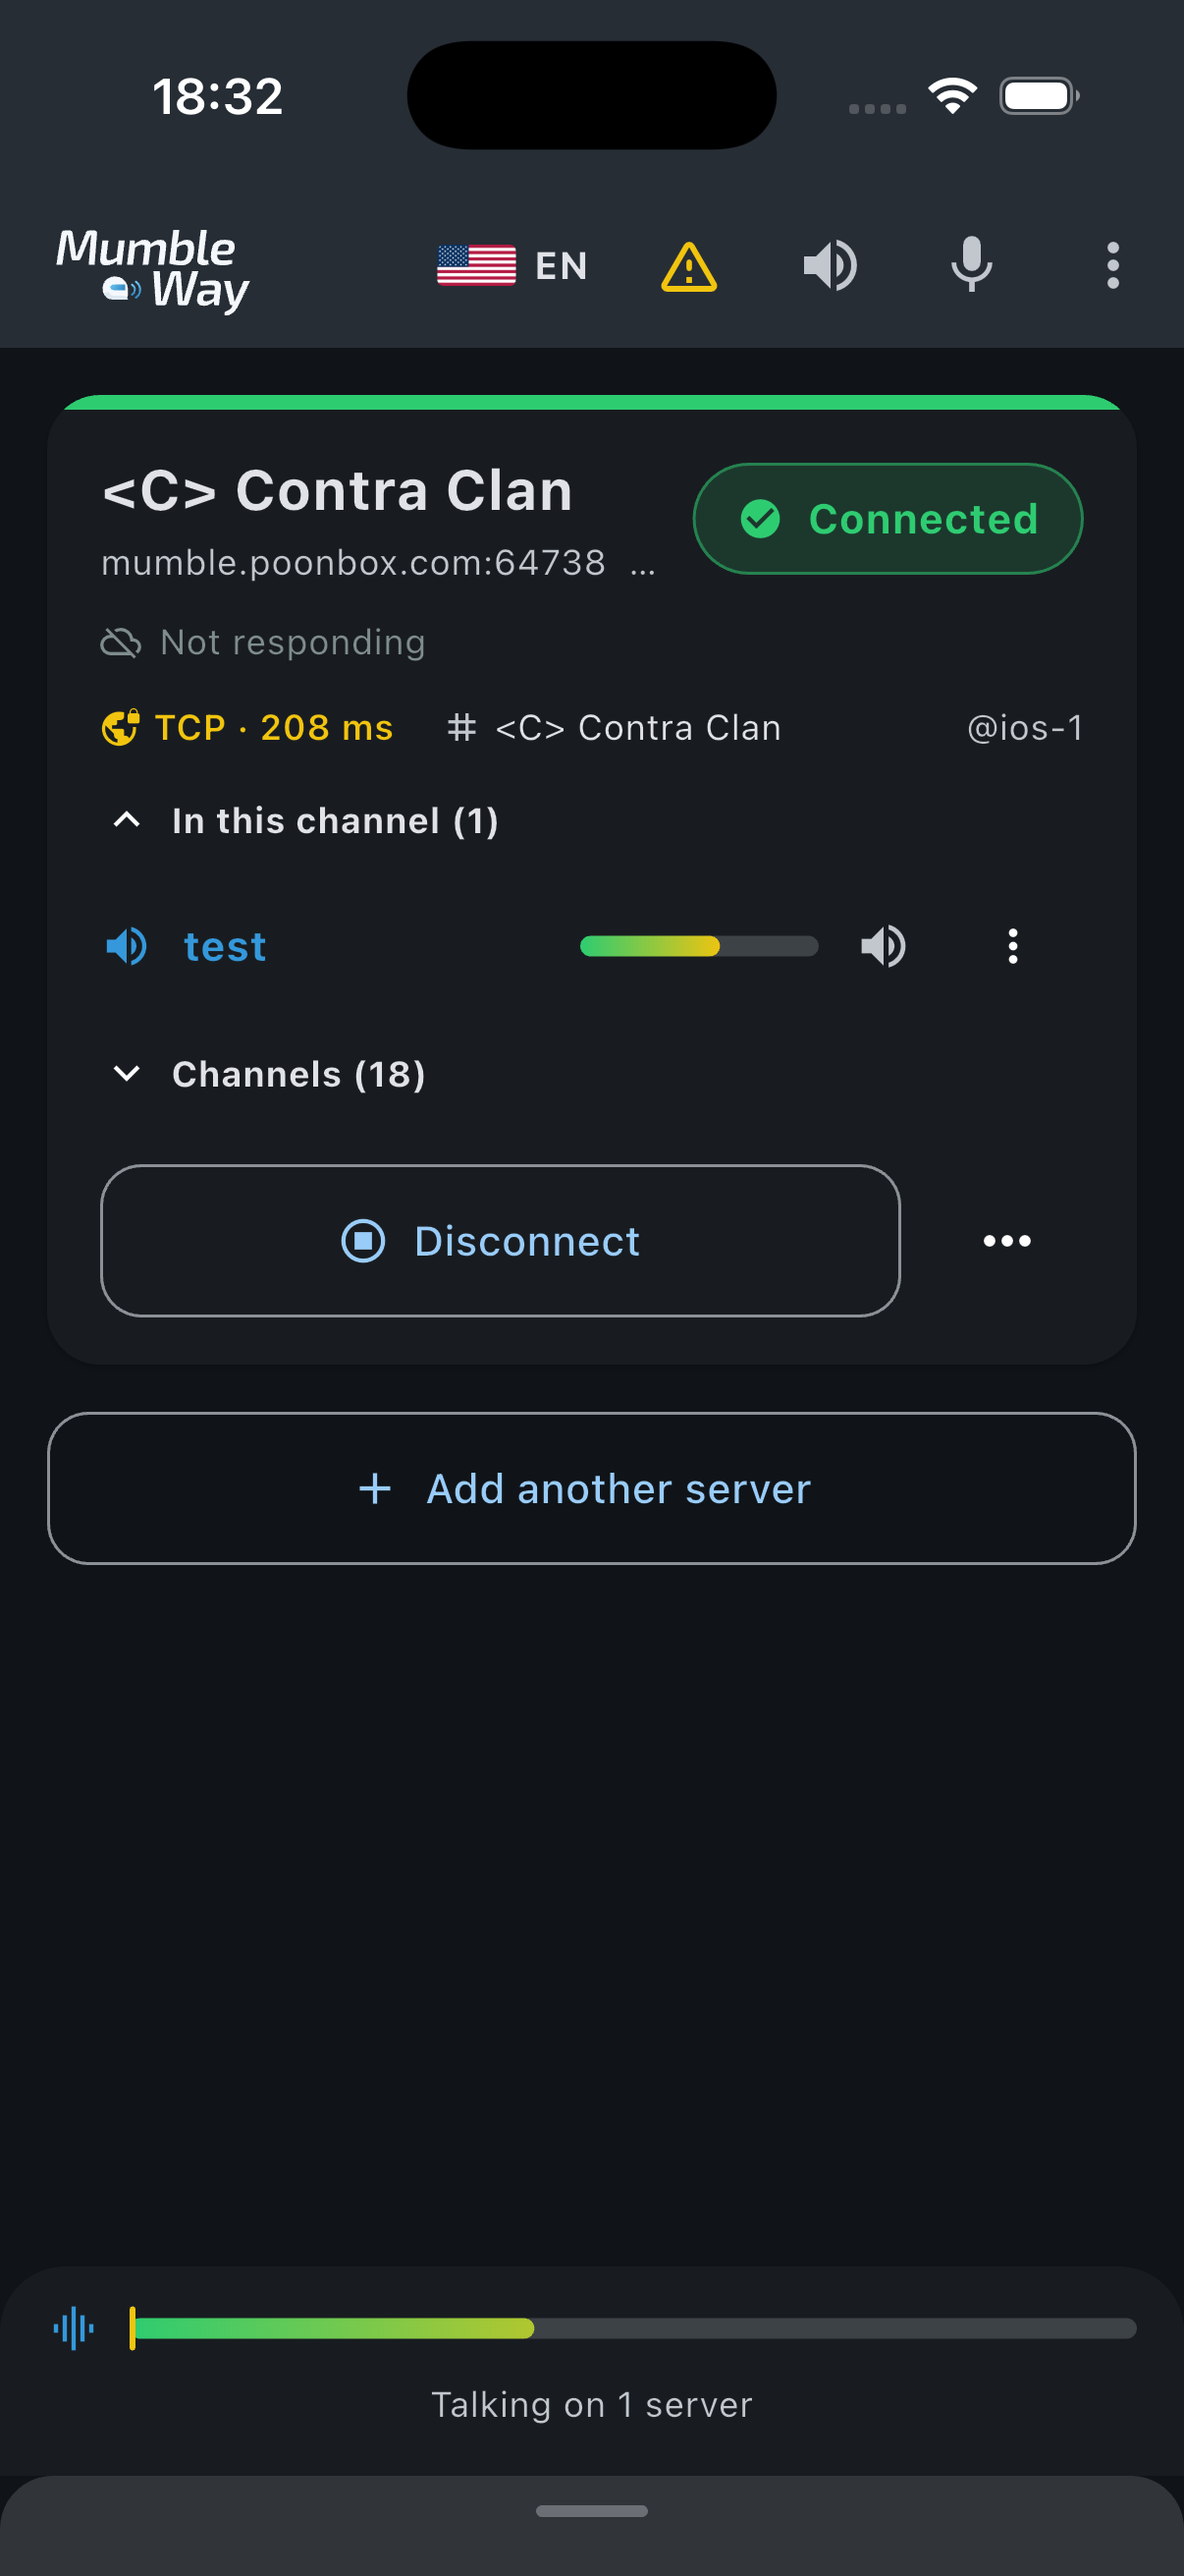
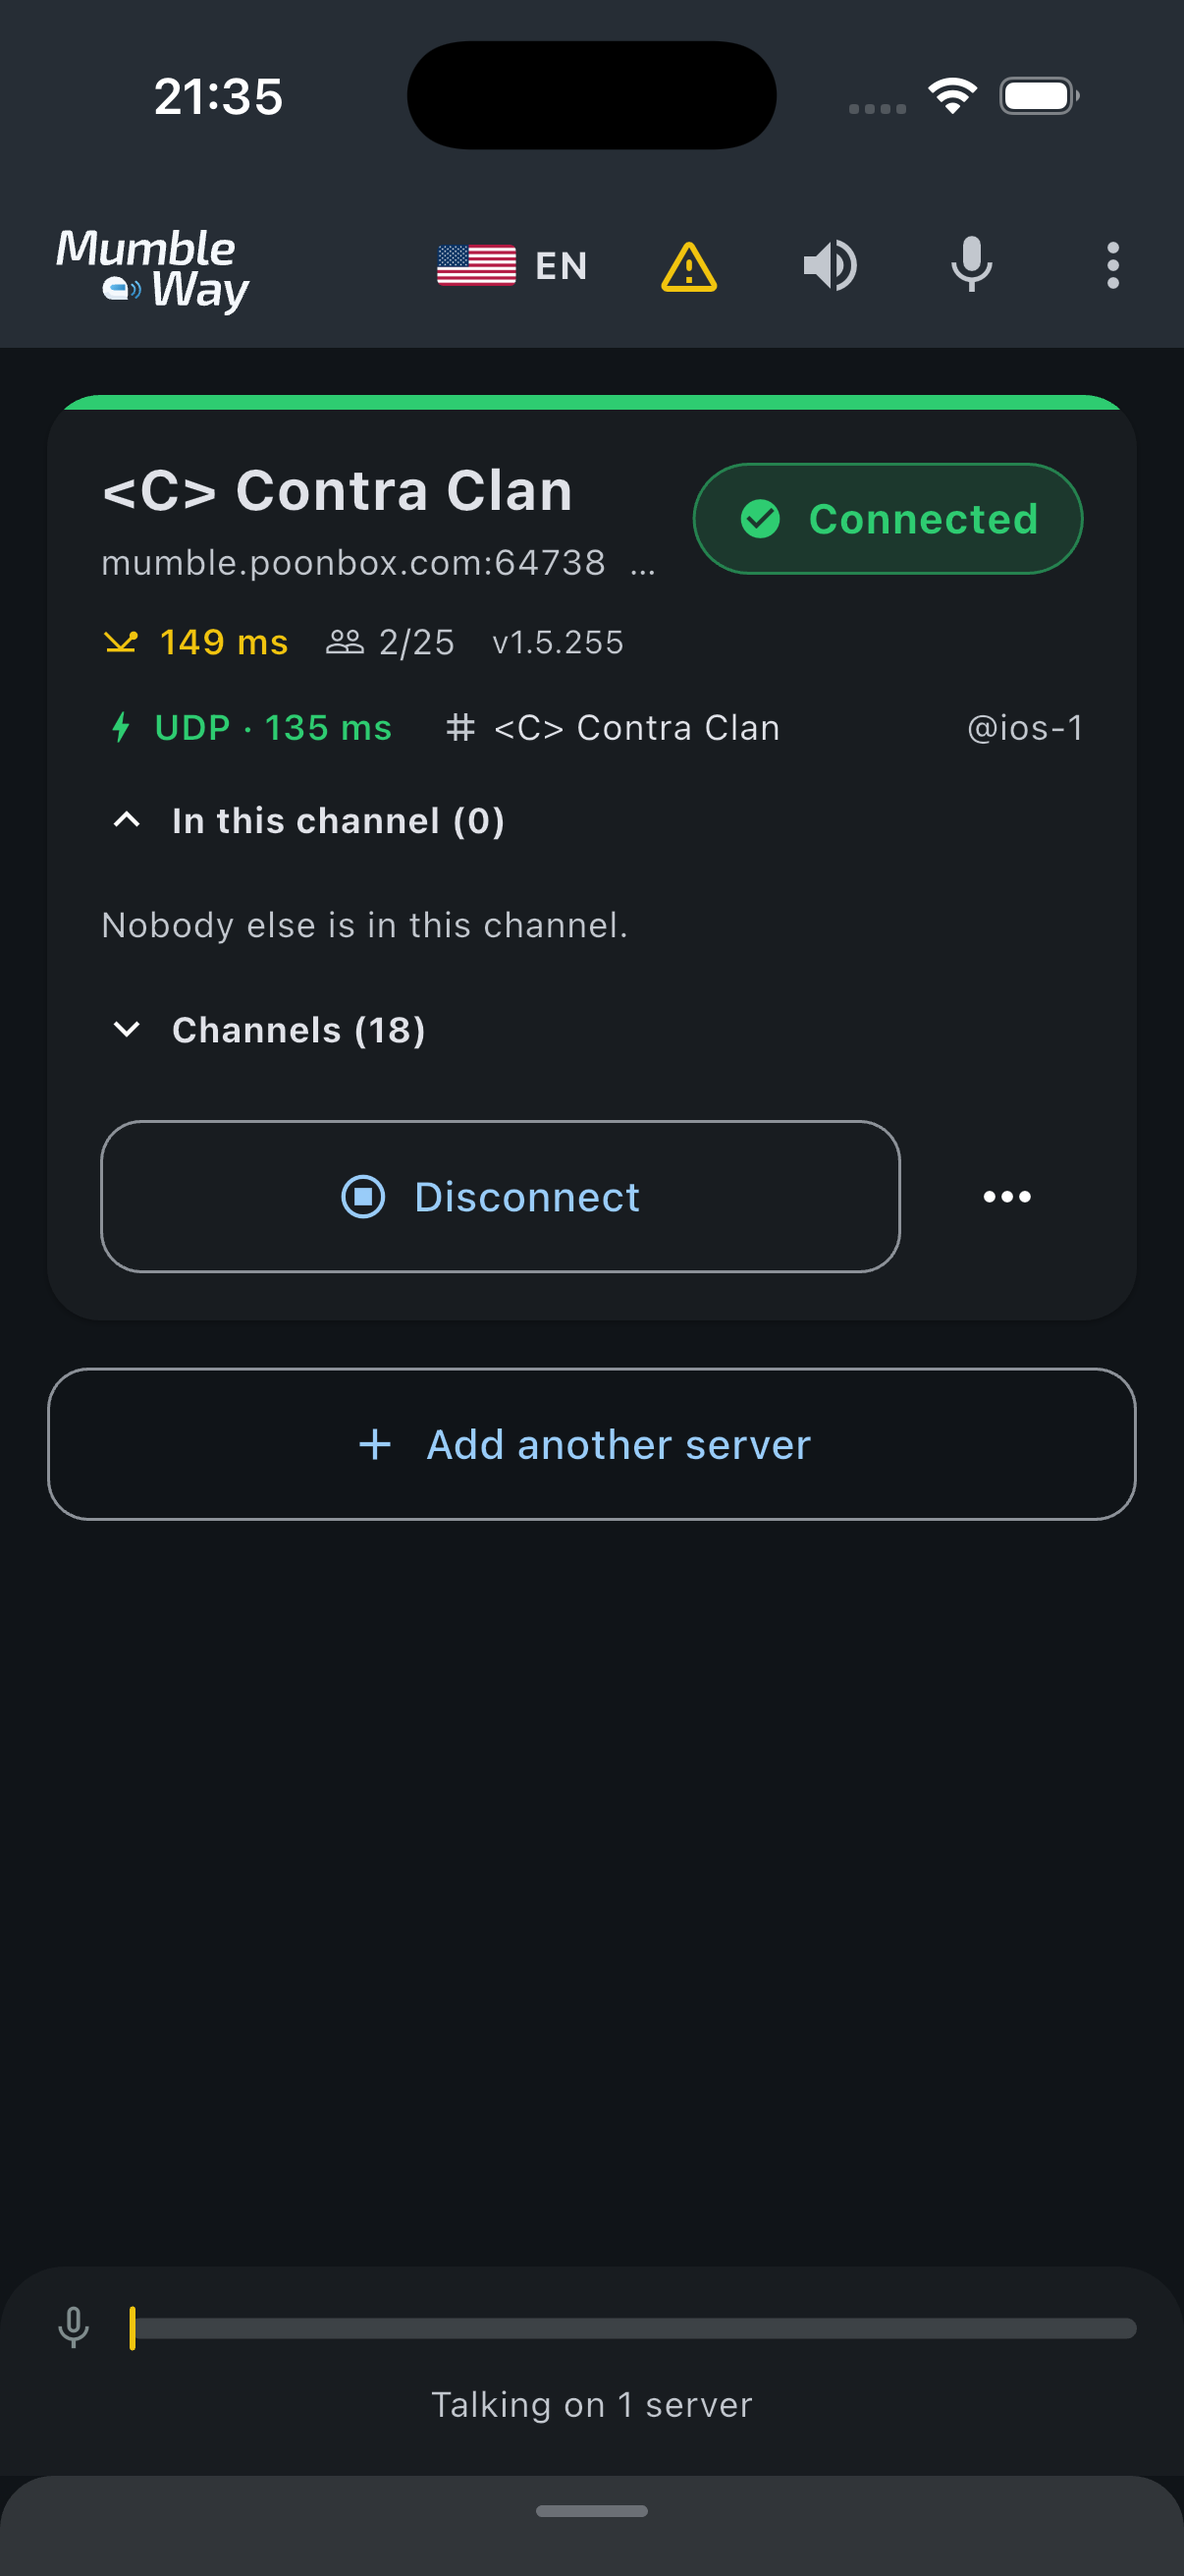
Lead the overview with Apple, where the pictures are of the current build
Two of the overview's figures were Android and Windows shots of screens that
have since changed:

- the relief ladder at its bottom was a Windows crop; it is now an iPhone,
  which shows the thing the paragraph above it claims — the toolbar icon going
  amber "so you find out without going looking" — and which the desktop crop
  did not include at all;
- the connected main screen was the Android emulator; it is now an iPhone on a
  public server.

`degraded-windows.webp` stays, because the diagnostics page still uses it.
`home-phone.webp` is deleted, superseded by `home-ios.webp` and referenced by
nothing after this.

Not done here, and deliberately: the two analyser figures, which need a device
that actually runs the analyser. The iPhone simulator is not one -- the relief
ladder switches the analyser off there, which is exactly why it makes such a
good picture of the ladder and such a poor picture of a spectrum. Those have to
come from the Mac.

diff --git a/docs/index.md b/docs/index.md
@@ -114,13 +114,13 @@ what it costs.
 
 <div class="shots">
   <figure>
-    <img src="{{ '/assets/img/shots/degraded-windows.webp' | relative_url }}"
-         alt="The diagnostics panel after the chain has been cut back: the
-              analyser replaced by a note saying it was switched off, Suppressor
-              struck through in the stage list, the enhancer reading Off, and a
-              warning explaining that parts of the noise chain were switched off
-              and that a more powerful device would run the whole chain."
-         width="1000" height="453" loading="lazy" decoding="async">
+    <img src="{{ '/assets/img/shots/degraded-ios.webp' | relative_url }}"
+         alt="The diagnostics panel after the chain has been cut back: an amber
+              warning in the toolbar, the analyser replaced by a note saying it
+              was switched off, Suppressor, Feedback and Enhancer struck through
+              in the stage list, the enhancer reading Off, and a warning saying
+              that a more powerful device would run the whole chain."
+         width="560" height="1218" loading="lazy" decoding="async">
     <figcaption>The bottom of the ladder, and the panel saying so.</figcaption>
   </figure>
 </div>
@@ -165,10 +165,11 @@ construction.
     <figcaption>No speech: the sent trace goes flat while the others do not.</figcaption>
   </figure>
   <figure>
-    <img src="{{ '/assets/img/shots/home-phone.webp' | relative_url }}"
-         alt="The main screen connected to a server, showing latency, the UDP
-              round trip, the channel and the microphone meter."
-         width="560" height="1244" loading="lazy" decoding="async">
+    <img src="{{ '/assets/img/shots/home-ios.webp' | relative_url }}"
+         alt="The main screen on iPhone connected to a public server, showing
+              the UDP round trip, who is in the channel, the channel list and
+              the microphone meter."
+         width="560" height="1218" loading="lazy" decoding="async">
     <figcaption>Connected: latency, channel, and the meter.</figcaption>
   </figure>
 </div>
